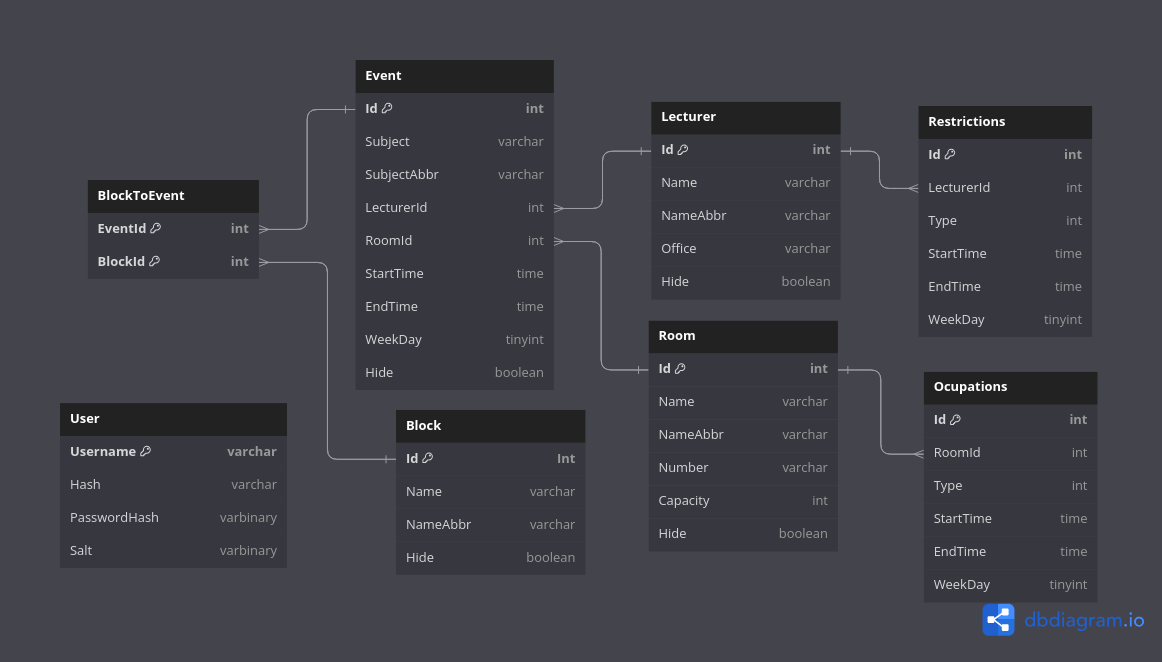
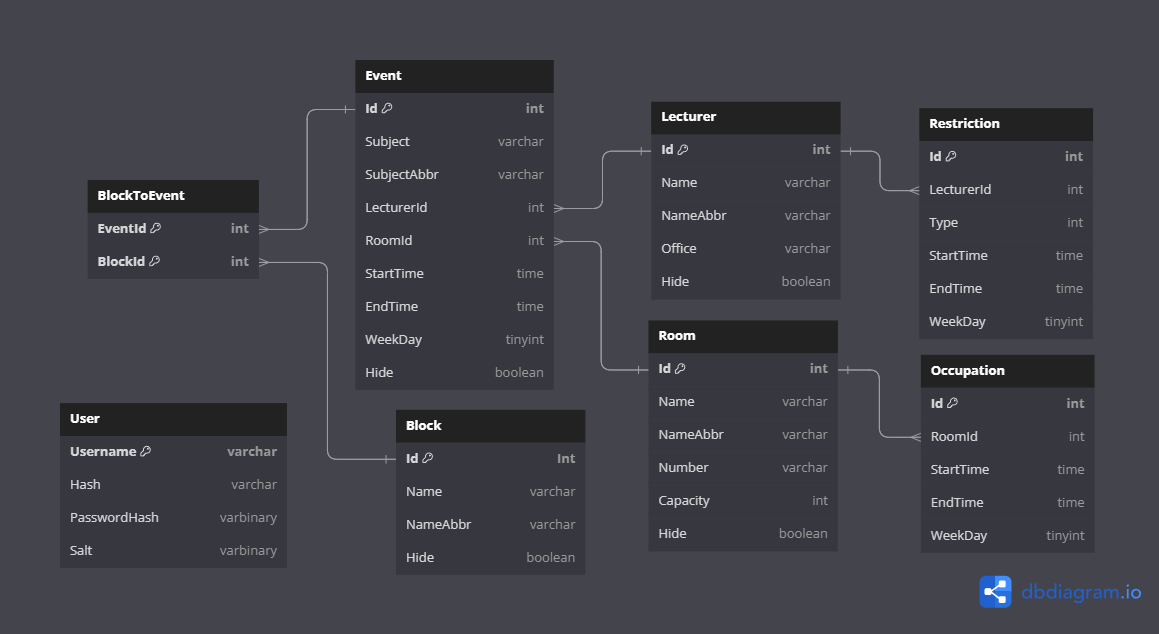
Rename Table Ocupation to Occupation

diff --git a/FlaskAPI/app.py b/FlaskAPI/app.py
@@ -246,7 +246,7 @@ def getEvents():
 def getOccupations():
     try:
         db = Database(conf)
-        query = f"SELECT * FROM OCUPATION"
+        query = f"SELECT * FROM OCCUPATION"
         records = db.run_query(query=query)
         response = get_response_msg(records, HTTPStatus.OK)
 
